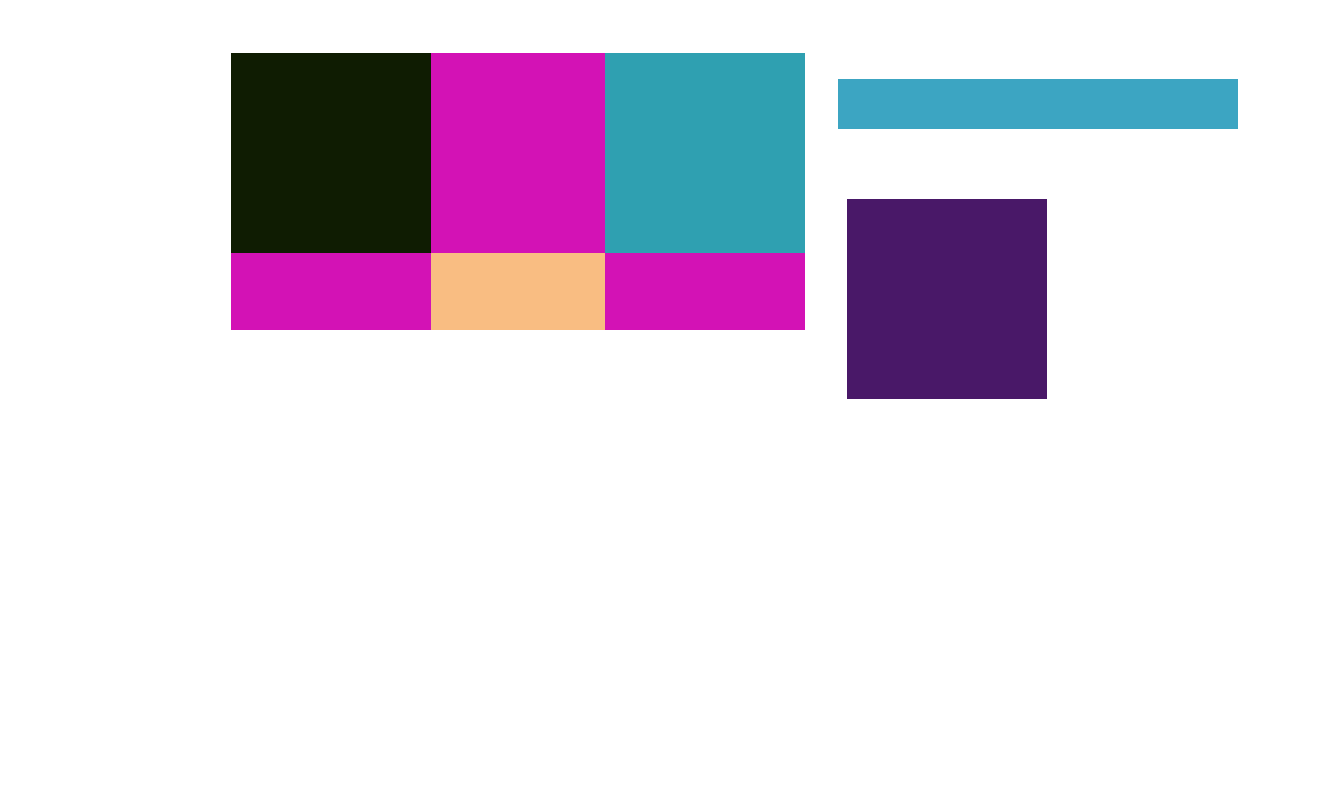
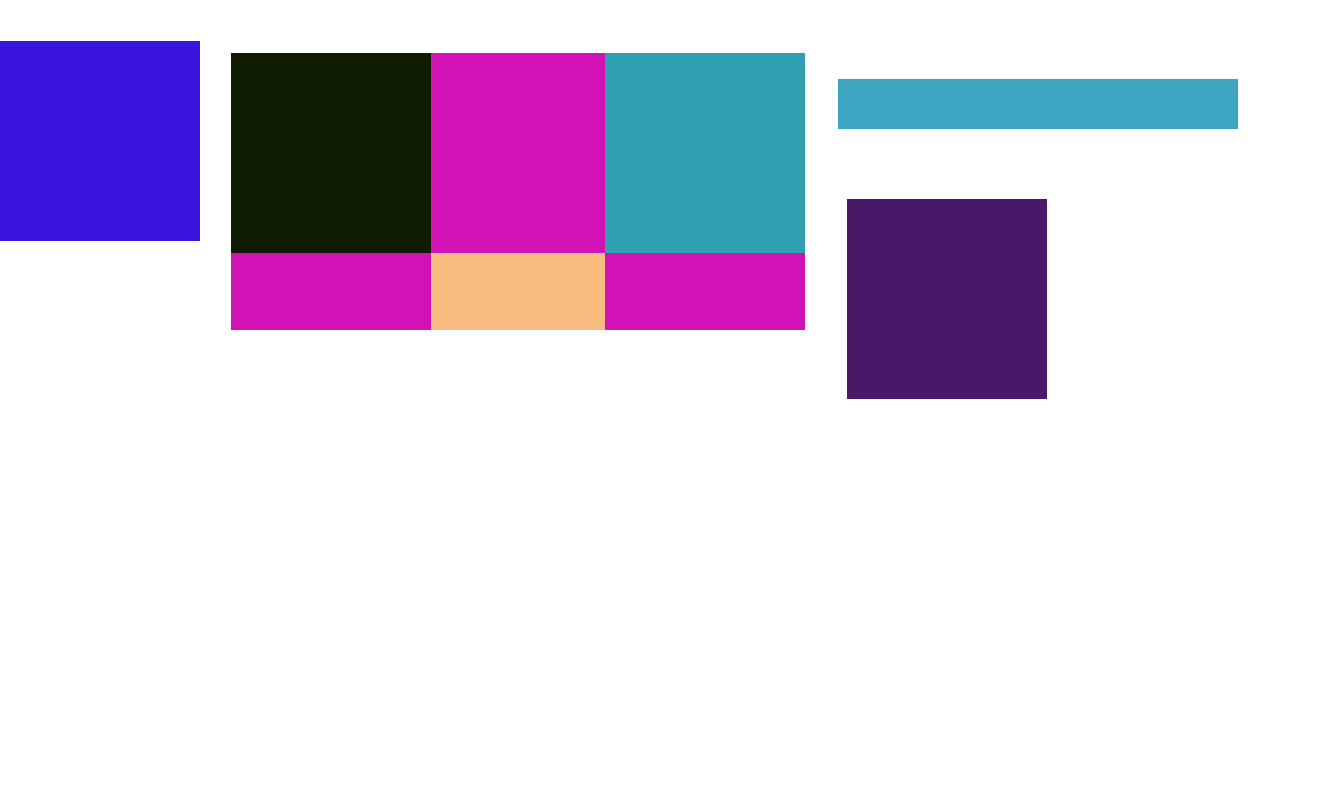
Bugs are removed, now user can add custom images

Changed region(s): [[0.0, 0.0312, 0.1529, 0.3125]]

diff --git a/scripts/menus_and_elements.js b/scripts/menus_and_elements.js
@@ -228,26 +228,26 @@ function generateAgain(element, css, isLoading) {
                 $(".near_block").position({
                     my: 'left+44 top+5',
                     at: 'left bottom',
-                    of: '#' + identifier,
+                    of: '#' + element.id,
                     collision: 'flip flip'
                 });
                 $("#vertical_context_menu").position({
                     my: 'left top+5',
                     at: 'left bottom',
-                    of: '#' + identifier,
+                    of: '#' + element.id,
                     collision: 'flip flip'
                 });
             } else {
                 $(".near_block").position({
                     my: 'left+49 top',
                     at: 'right top',
-                    of: '#' + identifier,
+                    of: '#' + element.id,
                     collision: 'flip flip'
                 });
                 $("#vertical_context_menu").position({
                     my: 'left+5 top',
                     at: 'right top',
-                    of: '#' + identifier,
+                    of: '#' + element.id,
                     collision: 'flip flip'
                 });
             }
@@ -302,33 +302,42 @@ function generateAgain(element, css, isLoading) {
                     }
                 }
 
+                $("#vertical_context_menu").css({
+                    zIndex: zindex + 1
+                });
+
                 if($("#" + element.id).width() >= 1300) {
                     $(".near_block").position({
                         my: 'left+44 top+5',
                         at: 'left bottom',
-                        of: '#' + identifier,
+                        of: '#' + element.id,
                         collision: 'flip flip'
                     });
                     $("#vertical_context_menu").position({
                         my: 'left top+5',
                         at: 'left bottom',
-                        of: '#' + identifier,
+                        of: '#' + element.id,
                         collision: 'flip flip'
                     });
                 } else {
                     $(".near_block").position({
                         my: 'left+49 top',
                         at: 'right top',
-                        of: '#' + identifier,
+                        of: '#' + element.id,
                         collision: 'flip flip'
                     });
                     $("#vertical_context_menu").position({
                         my: 'left+5 top',
                         at: 'right top',
-                        of: '#' + identifier,
+                        of: '#' + element.id,
                         collision: 'flip flip'
                     });
                 }
+
+                $(".near_block").css({
+                    visibility: 'hidden',
+                    zIndex: zindex + 1
+                });
             },
             stop: function(event, ui) {
                 busy = false;
@@ -398,33 +407,42 @@ function generateAgain(element, css, isLoading) {
                     //$("#" + parent_id).resizable("option", "minWidth", ($("#" + this.id).width() + 1 + $("#" + this.id).position().left));
                 }
 
+                $("#vertical_context_menu").css({
+                    zIndex: zindex + 1
+                });
+
                 if($("#" + element.id).width() >= 1300) {
                     $(".near_block").position({
                         my: 'left+44 top+5',
                         at: 'left bottom',
-                        of: '#' + identifier,
+                        of: '#' + element.id,
                         collision: 'flip flip'
                     });
                     $("#vertical_context_menu").position({
                         my: 'left top+5',
                         at: 'left bottom',
-                        of: '#' + identifier,
+                        of: '#' + element.id,
                         collision: 'flip flip'
                     });
                 } else {
                     $(".near_block").position({
                         my: 'left+49 top',
                         at: 'right top',
-                        of: '#' + identifier,
+                        of: '#' + element.id,
                         collision: 'flip flip'
                     });
                     $("#vertical_context_menu").position({
                         my: 'left+5 top',
                         at: 'right top',
-                        of: '#' + identifier,
+                        of: '#' + element.id,
                         collision: 'flip flip'
                     });
                 }
+
+                $(".near_block").css({
+                    visibility: 'hidden',
+                    zIndex: zindex + 1
+                });
 
             },
             stop: function(event, ui) {

diff --git a/scripts/library.js b/scripts/library.js
@@ -37,6 +37,10 @@ function createTemplateString() {
 
         }
 
+        while(result.indexOf('&quot;') != -1) {
+            result = result.replace('&quot;', '');
+        }
+
         var query = "name=" + currentFile + "&data=" + result + "&secs=" + sec_counter;
 
         $.ajax({
@@ -85,6 +89,71 @@ function appendSaved(data) {
         var b = jQuery.extend(true, {}, e.element);
         generatedElements.push(b);
         generateAgain(b, e.style, true);
+        var text = $("#" + b.id).css('background-image');
+        if(text.indexOf('url') != -1) {
+            var iret = text.indexOf('(') + 2;
+            var jert = text.indexOf(')') - 6;
+            var straight = text.substr(iret, jert);
+            var el = document.createElement("li");
+            var el2 = document.createElement("img");
+            el2.setAttribute('class', 'imgs');
+            el2.setAttribute('src', straight);
+            el.appendChild(el2);
+            $("#kuk").append(el);
+
+            $(".imgs").click(function () {
+                shiftLeftBar();
+                var hello = $(".imgs").toArray();
+                var eleme = hello[hello.length - 1];
+                var eve = {
+                    id: "",
+                    type: "div",
+                    parent: "#workplace",
+                    top: 0,
+                    position: "absolute",
+                    float: 'right',
+                    margin: '',
+                    width: "200px",
+                    height: "200px",
+                    background: '',
+                    font_size: '14px',
+                    border: 'none',
+                    zIndex_: zindex,
+                    focused: false,
+                    locked: false
+                };
+                generatedElements.push(eve);
+                generateElement(eve, true, "div");
+                var w = $(eleme).naturalWidth();
+                var h = $(eleme).naturalHeight();
+                if(w >= 1300 || h >= 800) {
+                    w /= 2;
+                    h /= 2;
+                    if(w >= 1300 || h >= 800) {
+                        w /= 2;
+                        h /= 2;
+                    }
+                }
+                $("#" + generatedElements[generatedElements.length - 1].id).css({
+                    width: w + 'px',
+                    height: h + 'px',
+                    background: "url(" + $(eleme).attr('src') + ") no-repeat",
+                    backgroundSize: '100% 100%'
+                });
+                var elems = $("#workplace .work_elements").each(function(event) {
+                    $(this).children().removeClass('ui-icon');
+                });
+                $($(".status_radio").toArray()[$(".status_radio").toArray().length - 1]).trigger('click');
+                createNewStatus(generatedElements[generatedElements.length - 1].id + " image was created", cursor, changes, generatedElements);
+                ++cursor;
+                my_cur = cursor
+            });
+        } else {
+            $('#custom_i_i').css({outline:'2px solid red'});
+            setTimeout(function () {
+                $('#custom_i_i').css({outline: 'none'});
+            }, 700);
+        }
     }
 }
 
@@ -730,6 +799,7 @@ function makeLoaded(data) {
         data: '',
         dataType: "text",
         success: function(data) {
+            //alert(data);
             appendSaved(data);
             createNewStatus("Load", cursor, changes, generatedElements);
             ++cursor;

diff --git a/styles/common.css b/styles/common.css
@@ -546,6 +546,10 @@ header {
     visibility: hidden; !important;
 }
 
+.custom_i_i {
+
+}
+
 
 #changes_menu {
     max-height: 300px;
@@ -790,6 +794,31 @@ header {
     border-top-right-radius: 2px;
     background: url('../images/search_ico.jpg');
     background-size: cover;
+}
+
+#custom_i_i {
+    float: left;
+    width: 152px;
+    border-radius: 2px;
+    margin-left: 30px;
+    overflow-x: visible;
+}
+
+.lastExpandable {
+    border-bottom: 1px solid #768888; !important;
+    width: 220px;
+}
+.imgs {
+    width: 150px;
+    height: 100px;
+    float: left;
+    border-radius: 2px;
+    margin-left: 30px;
+    margin-top: 5px;
+    border: 1px solid #768888;
+    max-height: 200px;
+    max-width: 200px;
+    object-fit: cover;
 }
 
 #search_input {

diff --git a/scripts/cabinet.js b/scripts/cabinet.js
@@ -371,7 +371,7 @@ function loadTime() {
         dataType: "text",
         success: function (data) {
             if(data.indexOf("|") != -1) {
-                showBArMenu("show", data, "CB");
+                showBArMenu("show", data, "nC");
             }
         }
     });

diff --git a/serverdata/2017-05-17-19-46-33/style.css b/serverdata/2017-05-17-19-46-33/style.css
@@ -1,0 +1,12 @@
+#div_1 {
+    position: absolute;
+    float: right;
+    width: 200px;
+    height: 200px;
+    background: rgb(125, 0, 124);
+    z-index: 1;
+    left: 152px;
+    top: 35px;
+    outline: rgb(135, 135, 135) dashed 2px;
+}
+

diff --git a/serverdata/2017-05-17-19-46-33/index.html b/serverdata/2017-05-17-19-46-33/index.html
@@ -1,0 +1,11 @@
+<!DOCTYPE html>
+<html>
+<head>
+	<meta charset="UTF-8">
+	<link rel="stylesheet" type="text/css" href="style.css">
+</head>
+<body style=" margin: 0px; padding: 0px;">
+	<div id="div_1">
+</div>
+</body>
+</html>

diff --git a/index.php b/index.php
@@ -419,7 +419,7 @@ if(!$_SESSION['user'] && !$_SESSION['uname'])
                 </ul>
             </li>
             <li>
-                <span class="outer_element" style="border-bottom: 1px solid #768888;">
+                <span class="outer_element">
                     <div class="el_arrow"></div>
                     Text formatting
                 </span>
@@ -466,6 +466,29 @@ if(!$_SESSION['user'] && !$_SESSION['uname'])
                     <li>
                         <span class="inner_element" id="sup"> &lt;sup&gt; </span>
                     </li>
+                </ul>
+            </li>
+            <li>
+                <span class="outer_element">
+                    <div class="el_arrow"></div>
+                    Custom images
+                </span>
+                <ul class="elements" id="kuk">
+                    <li>
+                         <input type="text" class="auth_input" id="custom_i_i">
+                    </li>
+                    <!--<li>
+                        <img src="images/logo.jpg" class="imgs">
+                    </li>
+                    <li>
+                        <img src="images/learn-javascript.png" class="imgs">
+                    </li>
+                    <li>
+                        <img src="images/Unofficial_JavaScript_logo_2.svg.png" class="imgs">
+                    </li>
+                    <li>
+                        <img src="images/reg_background3.jpg" class="imgs">
+                    </li> -->
                 </ul>
             </li>
         </ul>
